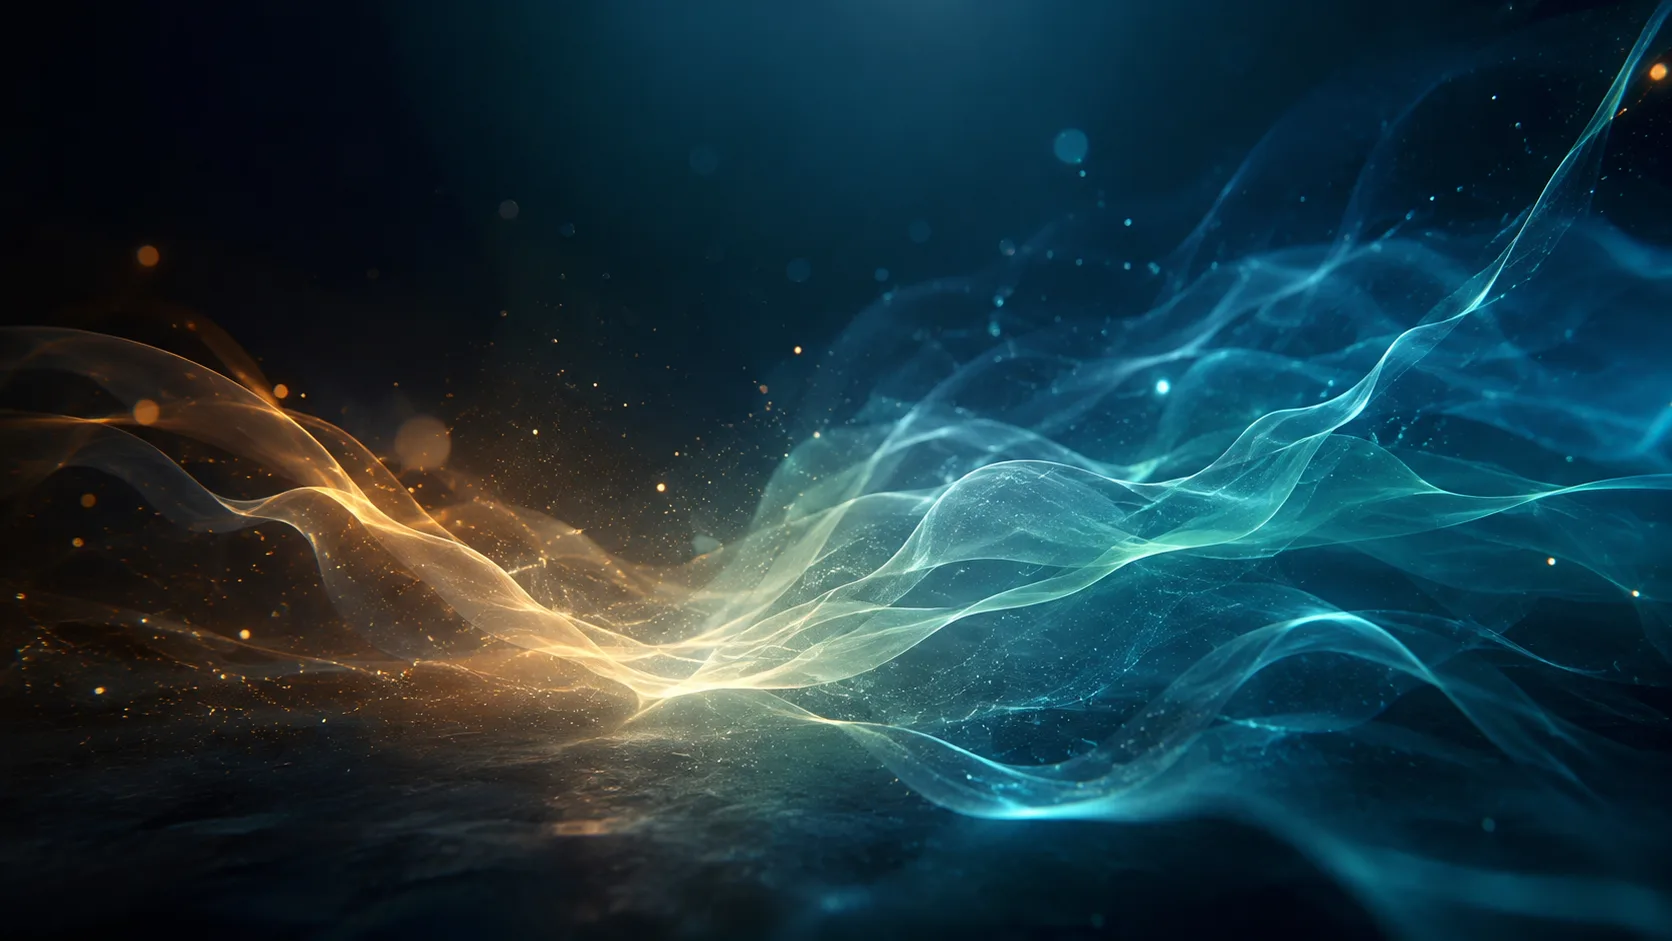
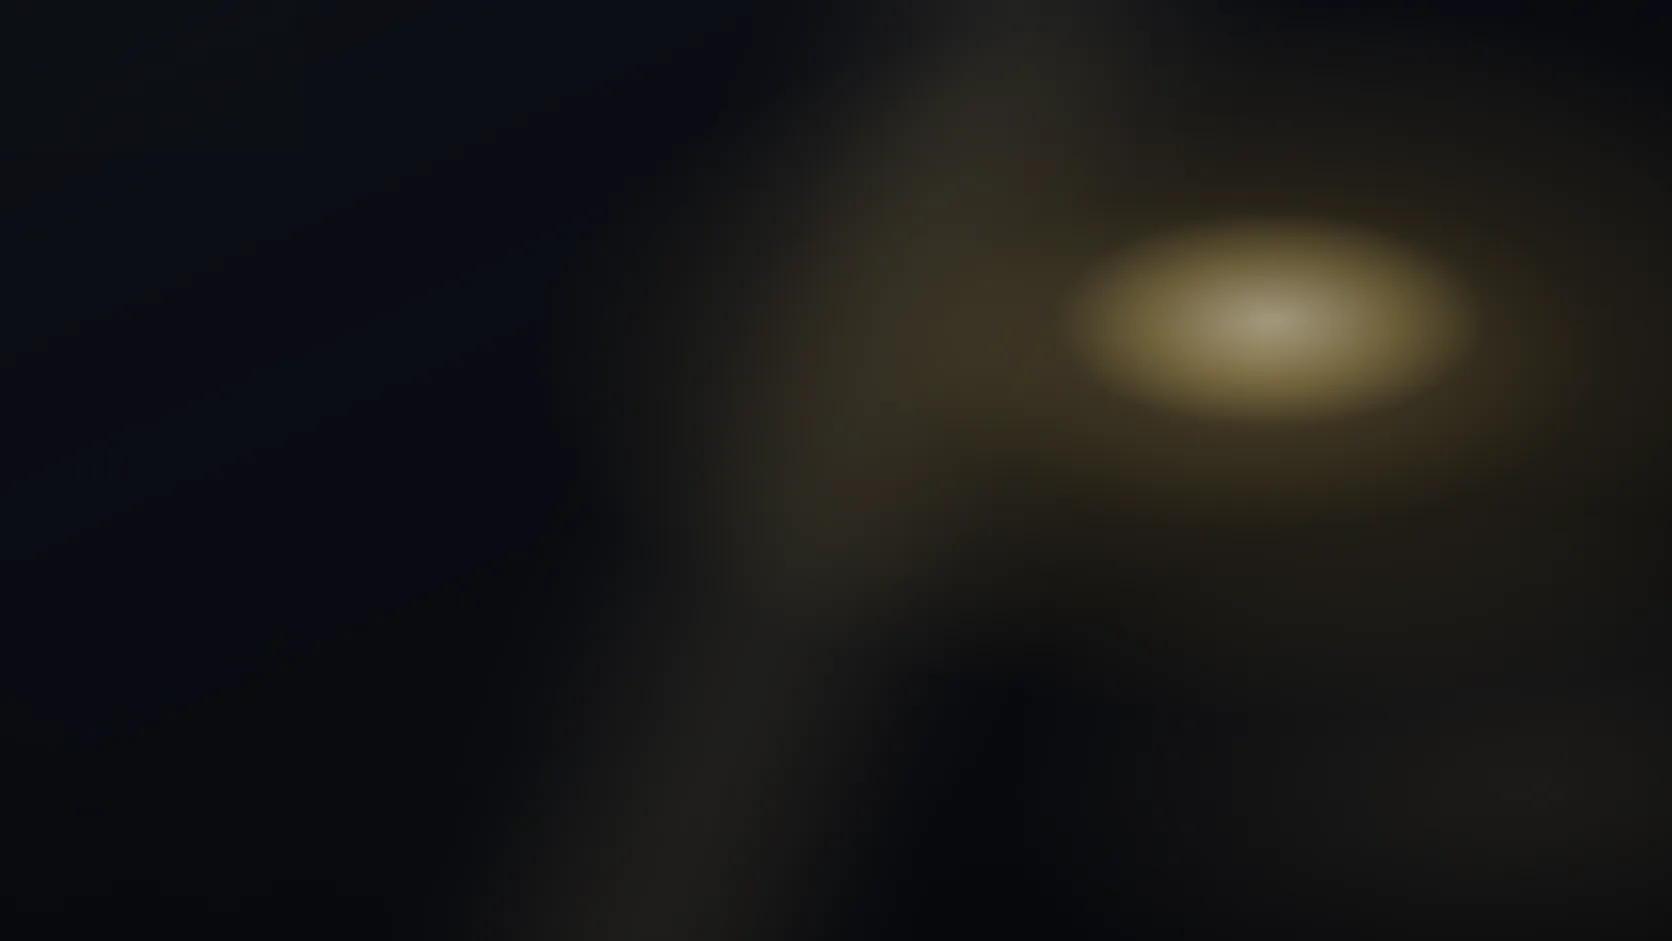
Rote Bild-Punkte: Hero + Neuroplastizität-Cover abstrakt-atmosphärisch neu
Ersetzt die beiden bild-inhaltlichen roten Punkte aus dem Design-Check durch
neu erzeugte, abstrakt-atmosphärische Motive (tiefes Navy #090b10 + warmer
Gold-Glow, feines Grain/Nebel, Vignette) statt des alten blau/türkisen
Neon-Gehirn-Looks:

- public/hero-mitglieder.webp neu (1672x941, ~7 KB)
- public/blog/neuroplastizitaet.webp neu (1536x1024, ~7 KB); altes 2 MB PNG
  entfernt, Referenz + alt-Text in src/lib/blog.ts angepasst

Gerendert mit der projekteigenen Chromium/Playwright-Pipeline direkt aus den
Design-Tokens; als optimiertes WebP exportiert (sharp). next build grün.
Audit-Bericht entsprechend nachgeführt.

Claude-Session: https://claude.ai/code/session_016x9sWbXF44TWXzUjvya6Hb

diff --git a/src/lib/blog.ts b/src/lib/blog.ts
@@ -1030,8 +1030,8 @@ export const posts: Post[] = [
   {
     slug: "neuroplastizitaet-warum-dein-gehirn-formbar-ist",
     image: {
-      src: "/blog/neuroplastizitaet.png",
-      alt: "Ein Gehirn, dessen neuronales Netz von kühlem Blau in leuchtendes Gold übergeht – Verbindungen, die sich lebenslang neu verdrahten.",
+      src: "/blog/neuroplastizitaet.webp",
+      alt: "Warmes goldenes Licht, das aus tiefem Dunkel aufscheint – ein ruhiges Sinnbild für ein Gehirn, das sich lebenslang neu formt.",
     },
     title: "Neuroplastizität: Warum sich dein Gehirn ein Leben lang verändert",
     excerpt:

diff --git a/docs/audit/design-check-2026-08-30.md b/docs/audit/design-check-2026-08-30.md
@@ -160,6 +160,9 @@ Umgesetzt wurden die **im Code behebbaren 🔴-Punkte**:
 
 Validierung: `eslint` der geänderten Dateien ohne Befund, `next build` „Compiled successfully".
 
-**Bewusst nicht umgesetzt (kein Code-Fix möglich):**
-- `public/blog/neuroplastizitaet.png` (🔴) und `public/hero-mitglieder.webp` (🔴) – falsch eingefärbte Raster-/Foto-Motive. Diese brauchen neu erstellte Bild-Assets in warm-golden/cinematic; sie lassen sich nicht per Code umfärben. Empfehlung: neu generieren/ersetzen und dann austauschen.
+**Bild-Punkte – ebenfalls umgesetzt (Nachtrag):**
+- `public/hero-mitglieder.webp` (🔴) und `public/blog/neuroplastizitaet` (🔴) wurden durch **neu erzeugte, abstrakt-atmosphärische Motive** ersetzt (Navy `#090b10` + Gold-Glow, feines Grain/Nebel, Vignette) – gerendert mit der projekteigenen Chromium-Pipeline direkt aus den Design-Tokens, als optimiertes WebP (je ~7 KB). Bewusste Design-Entscheidung: **weg vom Gehirn-/Neon-Motiv** (blieb dem alten kosmischen Look zu ähnlich) hin zu ruhiger, edler Licht-Atmosphäre. Das alte blaue `neuroplastizitaet.png` (2 MB) wurde entfernt und die Referenz in `src/lib/blog.ts` samt `alt`-Text angepasst.
+
+**Noch offen / Aufräumen:**
 - Das alte `public/logo-brain.png` (blau) wird nun nirgends mehr referenziert und kann bei der nächsten Asset-Bereinigung gelöscht werden (steht bereits auf der Aufräum-Liste).
+- Weitere Mitglieder-Heroes mit blau/gold-gemischter Bildsprache (`hero-programm.webp`, `hero-gedankenprofil.webp`) waren nur 🟠 – auf Wunsch lassen sie sich mit derselben Pipeline auf denselben abstrakt-atmosphärischen Stil umstellen.
